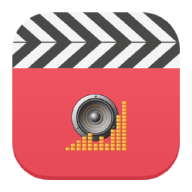
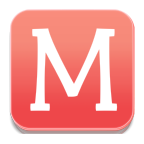
Version 1.0.2 Update

diff --git a/resources/views/mobile/index.blade.php b/resources/views/mobile/index.blade.php
@@ -123,7 +123,7 @@
 
                 <div class="col-md-3 service-grid">
 
-                    <a href="https://play.google.com/store/apps/details?id=mmsd.phyochan.myanmarmusicart" target="_blank">
+                    <a href="https://play.google.com/store/apps/details?id=mmsd.phyochan.mma" target="_blank">
                     <img src="{{asset('images/appstore2.png')}}"></a>
                     <p>Google Playstore တွင် Download ရယူရန်</p>
                 </div>
@@ -163,7 +163,11 @@
                 <div class="service-section" id="count">
                     <div class="container">
 
-                        <h4><span></span>v1.0.1<span></span></h4>
+                        <img src="{{asset('images/mma.png')}}" alt="">
+
+                        <br>
+
+                        <h4><span></span>v1.0.2<span></span></h4>
                         <br>
                         <br>
                         <h3><span></span> Download အရေအတွက်<span></span></h3>
